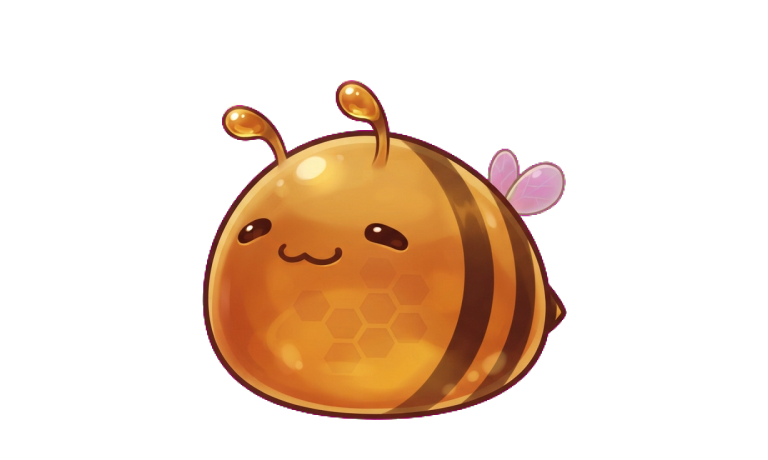
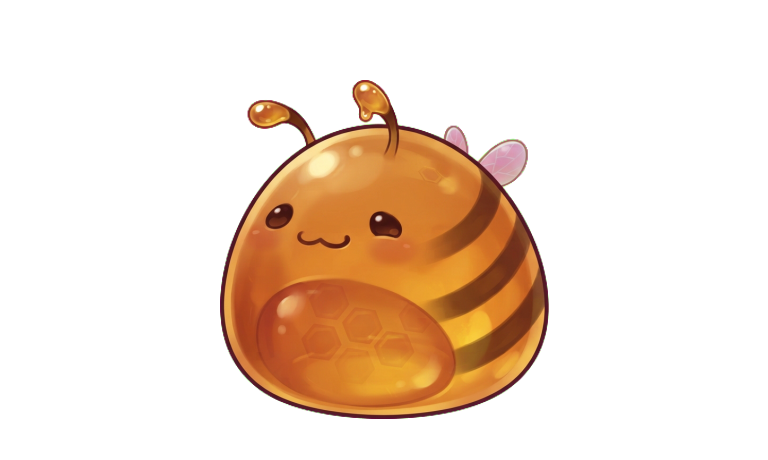
Friendship (bond) system, tap-to-call, bee slime art swap, max-h-screen fix

Changed region(s): [[0.25, 0.1522, 0.75, 0.913], [0.4688, 0.7, 0.5, 0.7304], [0.4375, 0.7913, 0.4688, 0.8217]]

diff --git a/src/components/game/HabitatViewer.tsx b/src/components/game/HabitatViewer.tsx
@@ -10,6 +10,7 @@ import { SlimeGallery } from './SlimeGallery';
 import { FeedTray } from './FeedTray';
 import { foodSpriteUrl } from '@/data/foodSprites';
 import { audioEngine } from '@/utils/audioEngine';
+import { bondLevel, bondProgress, BOND_LEVELS } from '@/utils/bond';
 import { setSanctuaryOpen } from '@/utils/sanctuaryState';
 import { JOY_MAX } from '@/utils/sanctuaryCore';
 import { SanctuaryPanel } from './SanctuaryPanel';
@@ -199,6 +200,7 @@ interface SlimeApi {
   setHover: (v: boolean) => void;
   pos: () => { x: number; y: number };
   greet: () => void;
+  callTo: (x: number, y: number) => boolean;
 }
 
 interface PointerSample {
@@ -219,8 +221,10 @@ interface BouncingSlimeProps {
   histRef: React.MutableRefObject<PointerSample[]>;
   apiRef: React.MutableRefObject<Record<string, SlimeApi>>;
   eatNonce: number;
+  bond: number;
   onPoke: (id: string, quiet?: boolean) => void;
   onDecor?: (decorId: string) => void;
+  onBond?: (id: string, amount: number) => void;
 }
 
 const DECOR_ANIM: Record<string, string> = { ball: 'dc-ball', swing: 'dc-swing', lantern: 'dc-sway', hammock: 'dc-swing', flowers: 'dc-sway', mushroom: 'dc-squash', stump: 'dc-squash', fountain: 'dc-pulse' };
@@ -274,7 +278,7 @@ const clamp = (v: number, a: number, b: number) => Math.min(b, Math.max(a, v));
 type Mode = 'idle' | 'crouch' | 'air' | 'land' | 'glide' | 'sleep' | 'carried' | 'inspect';
 type Mood = 'calm' | 'lonely' | 'curious' | 'happy';
 
-function BouncingSlime({ slime, selected, targeted, dragging, wantsFood, landmarks, attractRef, pointerRef, histRef, apiRef, eatNonce, onPoke, onDecor }: BouncingSlimeProps) {
+function BouncingSlime({ slime, selected, targeted, dragging, wantsFood, landmarks, attractRef, pointerRef, histRef, apiRef, eatNonce, bond, onPoke, onDecor, onBond }: BouncingSlimeProps) {
   const groundRef = useRef<HTMLDivElement>(null);
   const bodyRef = useRef<HTMLDivElement>(null);
   const shadowRef = useRef<HTMLDivElement>(null);
@@ -285,12 +289,12 @@ function BouncingSlime({ slime, selected, targeted, dragging, wantsFood, landmar
   bubbleRef.current = bubble;
   const hover = useRef(false);
   const pressed = useRef(false);
-  const cb = useRef({ onPoke, landmarks, onDecor });
-  cb.current = { onPoke, landmarks, onDecor };
+  const cb = useRef({ onPoke, landmarks, onDecor, onBond });
+  cb.current = { onPoke, landmarks, onDecor, onBond };
 
   // Latest props for the animation loop, which must not restart on every render
-  const live = useRef({ selected, targeted, dragging, wantsFood });
-  live.current = { selected, targeted, dragging, wantsFood };
+  const live = useRef({ selected, targeted, dragging, wantsFood, bond });
+  live.current = { selected, targeted, dragging, wantsFood, bond };
 
   const sim = useRef({
     x: rand(22, 78),
@@ -332,6 +336,7 @@ function BouncingSlime({ slime, selected, targeted, dragging, wantsFood, landmar
     nap: false,
     fed: performance.now() / 1000 - rand(30, 90), // when it last ate: hunger builds from here
     rush: false,
+    call: null as { x: number; y: number } | null, // a spot the player tapped for it to come to
   });
 
   // Show a reaction bubble. Soft ones (mood chatter) never interrupt a bubble that is already up.
@@ -436,6 +441,18 @@ function BouncingSlime({ slime, selected, targeted, dragging, wantsFood, landmar
         hover.current = v;
       },
       pos: () => ({ x: sim.current.x, y: sim.current.y }),
+      // the player tapped the ground: strangers are shy about it, friends come running
+      callTo: (px: number, py: number) => {
+        const s = sim.current;
+        if (s.mode === 'sleep' || s.mode === 'carried' || s.mode === 'air' || s.mode === 'crouch') return false;
+        const b = live.current.bond;
+        if (b < 40 && Math.random() < 0.4) { say(pickOf(['❓', 'txt:Hmm?']), 1500, false); return false; }
+        s.call = { x: clamp(px, BAND.minX, BAND.maxX), y: clamp(py, BAND.minY, BAND.maxY) };
+        s.visit = null; s.explore = null;
+        say(b >= 40 ? pickOf(['txt:Coming!', '👋', 'txt:On my way!']) : pickOf(['👋', 'txt:Okay?']), 1500);
+        if (s.mode === 'idle' || s.mode === 'land' || s.mode === 'inspect') { s.mode = 'idle'; s.t = 0; s.hasTarget = false; s.bounceQ = []; }
+        return true;
+      },
       // a friend arrived next to us: perk up and say hi
       greet: () => {
         const s = sim.current;
@@ -464,6 +481,7 @@ function BouncingSlime({ slime, selected, targeted, dragging, wantsFood, landmar
 
     const idleTime = () => {
       const s = sim.current;
+      if (s.call) return 0.12;
       const mult = s.mood === 'lonely' ? 1.4 : s.mood === 'curious' ? 0.7 : 1;
       return rand(pers.idle[0], pers.idle[1]) * mult;
     };
@@ -539,6 +557,7 @@ function BouncingSlime({ slime, selected, targeted, dragging, wantsFood, landmar
         if (dec) {
           const play = DECOR_PLAY[dec];
           cb.current.onDecor?.(dec);
+          if (play) cb.current.onBond?.(slime.id, 2);
           say(dec === 'ball' && Math.random() < 0.5 ? '🎾' : `txt:${pickOf(play?.words ?? ['Ooh!'])}`, 2400, false);
           if (play && play.bounces.length) {
             // bouncy toys: actually play on it instead of just looking
@@ -574,6 +593,24 @@ function BouncingSlime({ slime, selected, targeted, dragging, wantsFood, landmar
         y: rect && rect.height > 0 ? ((pt.y - rect.top) / rect.height) * 100 : s.y,
       });
       s.explore = null;
+
+      if (s.call && !l.targeted) {
+        const c = s.call;
+        const dx = c.x - s.x;
+        const dy = c.y - s.y;
+        if (Math.abs(dx) < 3.4 && Math.abs(dy) < 3.4) {
+          // arrived: the more it likes you, the bigger the show
+          s.call = null;
+          const b = l.bond;
+          s.bounceQ = b >= 300 ? [470, 390, 310, 240] : b >= 120 ? [400, 300, 230] : [330, 250];
+          say(pickOf(b >= 300 ? ['🤩', 'txt:Ta-da!', '💖'] : b >= 120 ? ['😄', 'txt:Look at me!', 'txt:Hehe!'] : ['😊', 'txt:Here!']), 2000);
+          cb.current.onBond?.(slime.id, b >= 40 ? 2 : 1);
+          bounceNext();
+          return;
+        }
+        goTo(s.x + clamp(dx, -24, 24), s.y + clamp(dy, -8, 8), pers.float ? 'float' : 'hop', hopJump());
+        return;
+      }
 
       if (l.targeted) {
         goTo(s.x, s.y, 'hop', 210); // food right over me: bounce with excitement
@@ -1245,7 +1282,31 @@ export function HabitatViewer({ habitatId, onClose, onOpenFarm }: HabitatViewerP
     say(`${slime.name} moved in!`);
   };
 
+  // Friendship: gains are rate limited per slime so spamming one action does not farm it
+  const bondGate = useRef<Record<string, number>>({});
+  const addBond = (slimeId: string, amount: number, gapMs = 2500) => {
+    const now = Date.now();
+    if (now - (bondGate.current[slimeId] ?? 0) < gapMs) return;
+    bondGate.current[slimeId] = now;
+    const sl = stateRef.current.slimes.find(s => s.id === slimeId);
+    if (!sl) return;
+    const before = bondLevel(sl.bond ?? 0);
+    const after = bondLevel((sl.bond ?? 0) + amount);
+    dispatch({ type: 'ADD_BOND', slimeId, amount });
+    if (after > before) {
+      const c = centerOf(slimeId);
+      if (c) {
+        addFx({ kind: 'text', x: c.x - 90, y: c.y - 110, text: `${sl.name} is now your ${BOND_LEVELS[after].name}!`, color: '#ffe14d', big: true }, 2600);
+        addFx({ kind: 'burst', x: c.x, y: c.y - 30, emojis: ['💖', '✨', '⭐'], count: 10 }, 1600);
+        addFx({ kind: 'ring', x: c.x, y: c.y, color: '#ff7eb6' }, 1200);
+      }
+      audioEngine.playSfx('discovery');
+      apiRef.current[slimeId]?.greet();
+    }
+  };
+
   const handlePoke = (slimeId: string, quiet = false) => {
+    addBond(slimeId, 1);
     const c = centerOf(slimeId);
     if (c) addFx({ kind: 'burst', x: c.x, y: c.y - 24, emojis: ['💖'], count: quiet ? 2 : 3 }, 1100);
     if (!quiet) audioEngine.playSfx('squish');
@@ -1279,6 +1340,7 @@ export function HabitatViewer({ habitatId, onClose, onOpenFarm }: HabitatViewerP
       dispatch({ type: 'FEED_SLIME_XP', slimeId, foodType: food });
       dispatch({ type: 'SANCT_JOY', habitatId, source: 'feed', now: Date.now(), rolls: Array.from({ length: 12 }, Math.random) });
       setEatNonce(n => ({ ...n, [slimeId]: (n[slimeId] || 0) + 1 }));
+      addBond(slimeId, 3, 0);
       const at = centerOf(slimeId) ?? c;
       addFx({ kind: 'burst', x: at.x, y: at.y - 20, emojis: ['💖', '✨'], count: 6 });
       addFx({ kind: 'text', x: at.x + 35, y: at.y - 45, text: `+${info.xpValue} XP`, color: '#7CFFB2' }, 1300);
@@ -1432,6 +1494,16 @@ export function HabitatViewer({ habitatId, onClose, onOpenFarm }: HabitatViewerP
         // a little puff of the sanctuary's own sparkles where you tapped
         const pt = pointerRef.current;
         if (pt) {
+          // ...and the nearest slime that is free to move answers the call
+          const r = sceneRef.current?.getBoundingClientRect();
+          if (r && r.width > 0 && r.height > 0) {
+            const px = ((pt.x - r.left) / r.width) * 100;
+            const py = ((pt.y - r.top) / r.height) * 100;
+            const near = Object.entries(apiRef.current)
+              .map(([id, a]) => ({ id, a, d: Math.hypot(a.pos().x - px, (a.pos().y - py) * 1.6) }))
+              .sort((p, q) => p.d - q.d);
+            for (const n of near) { if (n.d < 3) break; if (n.a.callTo(px, py)) break; }
+          }
           addFx({ kind: 'burst', x: pt.x, y: pt.y, emojis: GROUND_SPARKLE[habitat?.element ?? 'light'] ?? ['✨'], count: 5 }, 1000);
           audioEngine.playSfx('squish');
         }
@@ -1569,6 +1641,8 @@ export function HabitatViewer({ habitatId, onClose, onOpenFarm }: HabitatViewerP
               histRef={histRef}
               apiRef={apiRef}
               eatNonce={eatNonce[slime.id] || 0}
+              bond={slime.bond ?? 0}
+              onBond={addBond}
               onPoke={handlePoke}
             />
           ))}
@@ -1610,6 +1684,18 @@ export function HabitatViewer({ habitatId, onClose, onOpenFarm }: HabitatViewerP
           <div>
             <p className="text-xs text-white/60 font-bold tracking-wider uppercase">Inhabitants</p>
             <p className="text-lg font-black text-white">{assignedSlimes.length} <span className="text-white/60">/ {habitat.capacity}</span></p>
+          </div>
+          <div className="flex items-center gap-3 flex-wrap justify-center" aria-label="Friendship">
+            {assignedSlimes.map(sl => {
+              const lv = bondLevel(sl.bond ?? 0);
+              return (
+                <div key={sl.id} className="flex flex-col items-center" style={{ minWidth: 64 }} title={`${sl.name}: ${BOND_LEVELS[lv].name}`}>
+                  <span className="text-[10px] font-black text-white/80 leading-none truncate" style={{ maxWidth: 80 }}>{sl.name.replace(' Slime', '')}</span>
+                  <span className="text-[13px] leading-none mt-0.5" style={{ color: '#ff7eb6', letterSpacing: 1 }}>{'♥'.repeat(lv)}<span style={{ color: 'rgba(255,255,255,0.25)' }}>{'♥'.repeat(3 - lv)}</span></span>
+                  <span className="mt-0.5 rounded-full overflow-hidden" style={{ width: 52, height: 4, background: 'rgba(255,255,255,0.18)' }}><span className="block h-full" style={{ width: `${Math.round(bondProgress(sl.bond ?? 0) * 100)}%`, background: 'linear-gradient(90deg,#ff7eb6,#ffd27e)' }} /></span>
+                </div>
+              );
+            })}
           </div>
           <div className="text-right">
             <p className="text-[10px] text-white/40 font-black uppercase tracking-widest">Available Goo</p>

diff --git a/src/utils/bond.ts b/src/utils/bond.ts
@@ -1,0 +1,21 @@
+/** Friendship between you and each slime. It grows from petting, feeding, playing and coming when called. */
+export const BOND_LEVELS = [
+  { name: 'New', at: 0 },
+  { name: 'Friend', at: 40 },
+  { name: 'Buddy', at: 120 },
+  { name: 'Best Friend', at: 300 },
+] as const;
+
+export const bondLevel = (bond = 0): number => {
+  let lv = 0;
+  BOND_LEVELS.forEach((l, i) => { if (bond >= l.at) lv = i; });
+  return lv;
+};
+export const bondName = (bond = 0): string => BOND_LEVELS[bondLevel(bond)].name;
+/** 0..1 progress to the next level (1 at the top). */
+export const bondProgress = (bond = 0): number => {
+  const lv = bondLevel(bond);
+  const next = BOND_LEVELS[lv + 1];
+  if (!next) return 1;
+  return (bond - BOND_LEVELS[lv].at) / (next.at - BOND_LEVELS[lv].at);
+};

diff --git a/src/hooks/useGameState.tsx b/src/hooks/useGameState.tsx
@@ -318,6 +318,8 @@ export function gameReducer(state: GameState, action: GameAction): GameState {
       return { ...state, activeHatching: { slime: action.slime, endTime: Date.now() + action.duration } };
     case 'FINISH_HATCHING':
       return { ...state, activeHatching: null };
+    case 'ADD_BOND':
+      return { ...state, slimes: state.slimes.map(s => s.id === action.slimeId ? { ...s, bond: Math.min(999, (s.bond ?? 0) + action.amount) } : s) };
     case 'HATCH_WAIT':
       return state.activeHatching ? { ...state, activeHatching: { ...state.activeHatching, waiting: true } } : state;
     case 'ADD_GOO':

diff --git a/src/types/slime.ts b/src/types/slime.ts
@@ -41,6 +41,7 @@ export interface Slime {
   isNew?: boolean;
   level: number;
   xp: number;
+  bond?: number; // friendship with the player (see utils/bond.ts)
 }
 
 /** A travelling merchant who sometimes visits the sanctuaries and asks for food from the farm. */
@@ -281,6 +282,7 @@ export type GameAction =
   | { type: 'START_HATCHING'; slime: Slime; duration: number }
   | { type: 'FINISH_HATCHING' }
   | { type: 'HATCH_WAIT' }
+  | { type: 'ADD_BOND'; slimeId: string; amount: number }
   | { type: 'ADD_GOO'; amount: number }
   | { type: 'SPEND_GOO'; amount: number }
   | { type: 'ACTIVATE_MUTATION_JUICE' }

diff --git a/src/utils/bond.test.ts b/src/utils/bond.test.ts
@@ -1,0 +1,18 @@
+import { describe, it, expect } from 'vitest';
+import { bondLevel, bondName, bondProgress } from './bond';
+
+describe('bond', () => {
+  it('levels up at the thresholds', () => {
+    expect(bondLevel(undefined)).toBe(0);
+    expect(bondLevel(39)).toBe(0);
+    expect(bondLevel(40)).toBe(1);
+    expect(bondLevel(120)).toBe(2);
+    expect(bondLevel(9999)).toBe(3);
+    expect(bondName(300)).toBe('Best Friend');
+  });
+  it('progress runs 0..1', () => {
+    expect(bondProgress(0)).toBe(0);
+    expect(bondProgress(20)).toBeCloseTo(0.5);
+    expect(bondProgress(500)).toBe(1);
+  });
+});

diff --git a/src/index.css b/src/index.css
@@ -460,6 +460,7 @@ html, body { margin: 0; padding: 0; width: 100%; height: 100%; overflow: hidden;
 .h-screen { height: 100cqh; }
 .min-h-screen { min-height: 100cqh; }
 .w-screen { width: 100cqw; }
+.max-h-screen { max-height: 100cqh; }
 html { -webkit-text-size-adjust: 100%; -webkit-tap-highlight-color: transparent; }
 body { -webkit-touch-callout: none; user-select: none; -webkit-user-select: none; }
 input, textarea, [contenteditable] { user-select: text; -webkit-user-select: text; }
